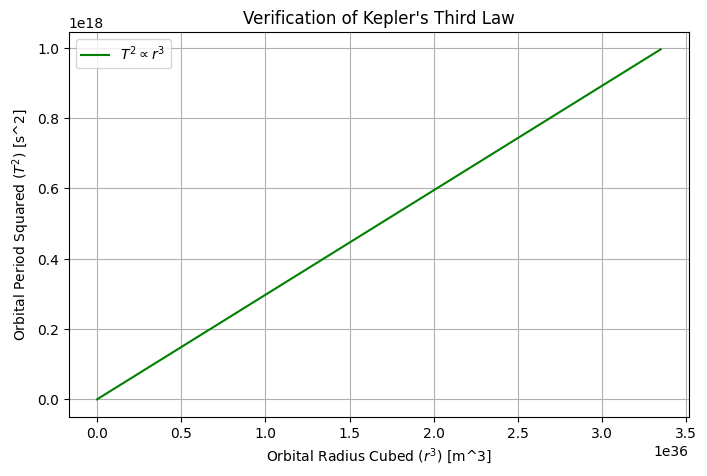
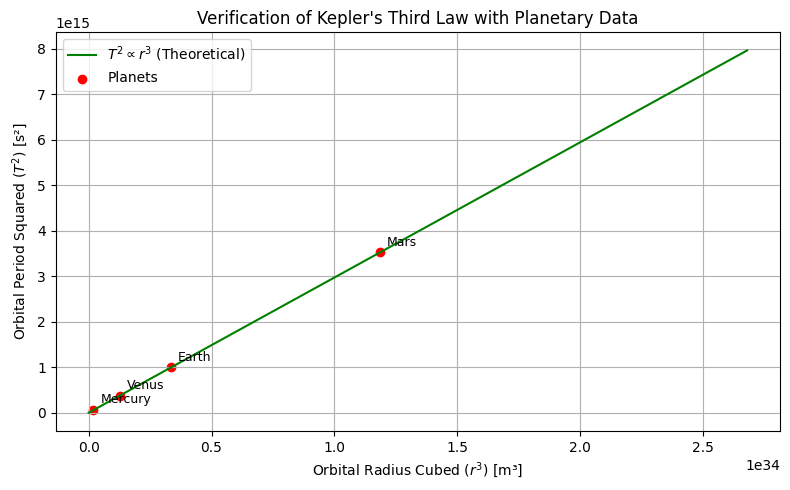
Last part of gravity problem 1

diff --git a/docs/1 Physics/2 Gravity/Problem_1.md b/docs/1 Physics/2 Gravity/Problem_1.md
@@ -133,6 +133,67 @@ The law remains versatile across various orbital configurations, reaffirming its
 
 ![alt text](image.png)
 
+# 🔭 Using Kepler’s Third Law to Estimate Masses
+
+Kepler’s Third Law (in Newtonian form):
+
+$$
+T^2 = \frac{4\pi^2 r^3}{G M}
+\quad \Rightarrow \quad
+M = \frac{4\pi^2 r^3}{G T^2}
+$$
+
+Where:
+- $T$ is the orbital period (in seconds)
+- $r$ is the orbital radius (in meters)
+- $G = 6.67430 \times 10^{-11} \, \text{m}^3/\text{kg}/\text{s}^2$
+
+---
+
+## Mass of the Sun (Using Earth's Orbit)
+
+- Orbital radius of Earth:  
+  $$
+  r = 1 \, \text{AU} = 1.496 \times 10^{11} \, \text{m}
+  $$
+- Orbital period of Earth:  
+  $$
+  T = 365.25 \times 24 \times 3600 = 3.156 \times 10^7 \, \text{s}
+  $$
+
+**Plug into formula:**
+$$
+M_{\text{sun}} = \frac{4\pi^2 (1.496 \times 10^{11})^3}{6.67430 \times 10^{-11} \times (3.156 \times 10^7)^2}
+\approx 1.989 \times 10^{30} \, \text{kg}
+$$
+
+**Mass of the Sun ≈ $1.989 \times 10^{30}$ kg**
+
+---
+
+## Mass of the Earth (Using Moon’s Orbit)
+
+- Orbital radius of Moon:  
+  $$
+  r = 3.844 \times 10^8 \, \text{m}
+  $$
+- Orbital period of Moon:  
+  $$
+  T = 27.32 \times 24 \times 3600 = 2.36 \times 10^6 \, \text{s}
+  $$
+
+**Plug into formula:**
+$$
+M_{\text{earth}} = \frac{4\pi^2 (3.844 \times 10^8)^3}{6.67430 \times 10^{-11} \times (2.36 \times 10^6)^2}
+\approx 5.97 \times 10^{24} \, \text{kg}
+$$
+ **Mass of the Earth ≈ $5.97 \times 10^{24}$ kg**
+
+---
+
+These values closely match accepted astronomical constants, verifying Kepler's Third Law.
+
+
 ## General Observations
 
 Kepler's Third Law links orbital periods to the masses and distances in celestial systems. It reveals that larger central masses correspond to shorter orbital periods for the same distance. A logarithmic graph illustrates how varying the mass of the central body impacts the relationship between radius and period. This law remains a cornerstone for astronomical studies and the characterization of planetary systems.
